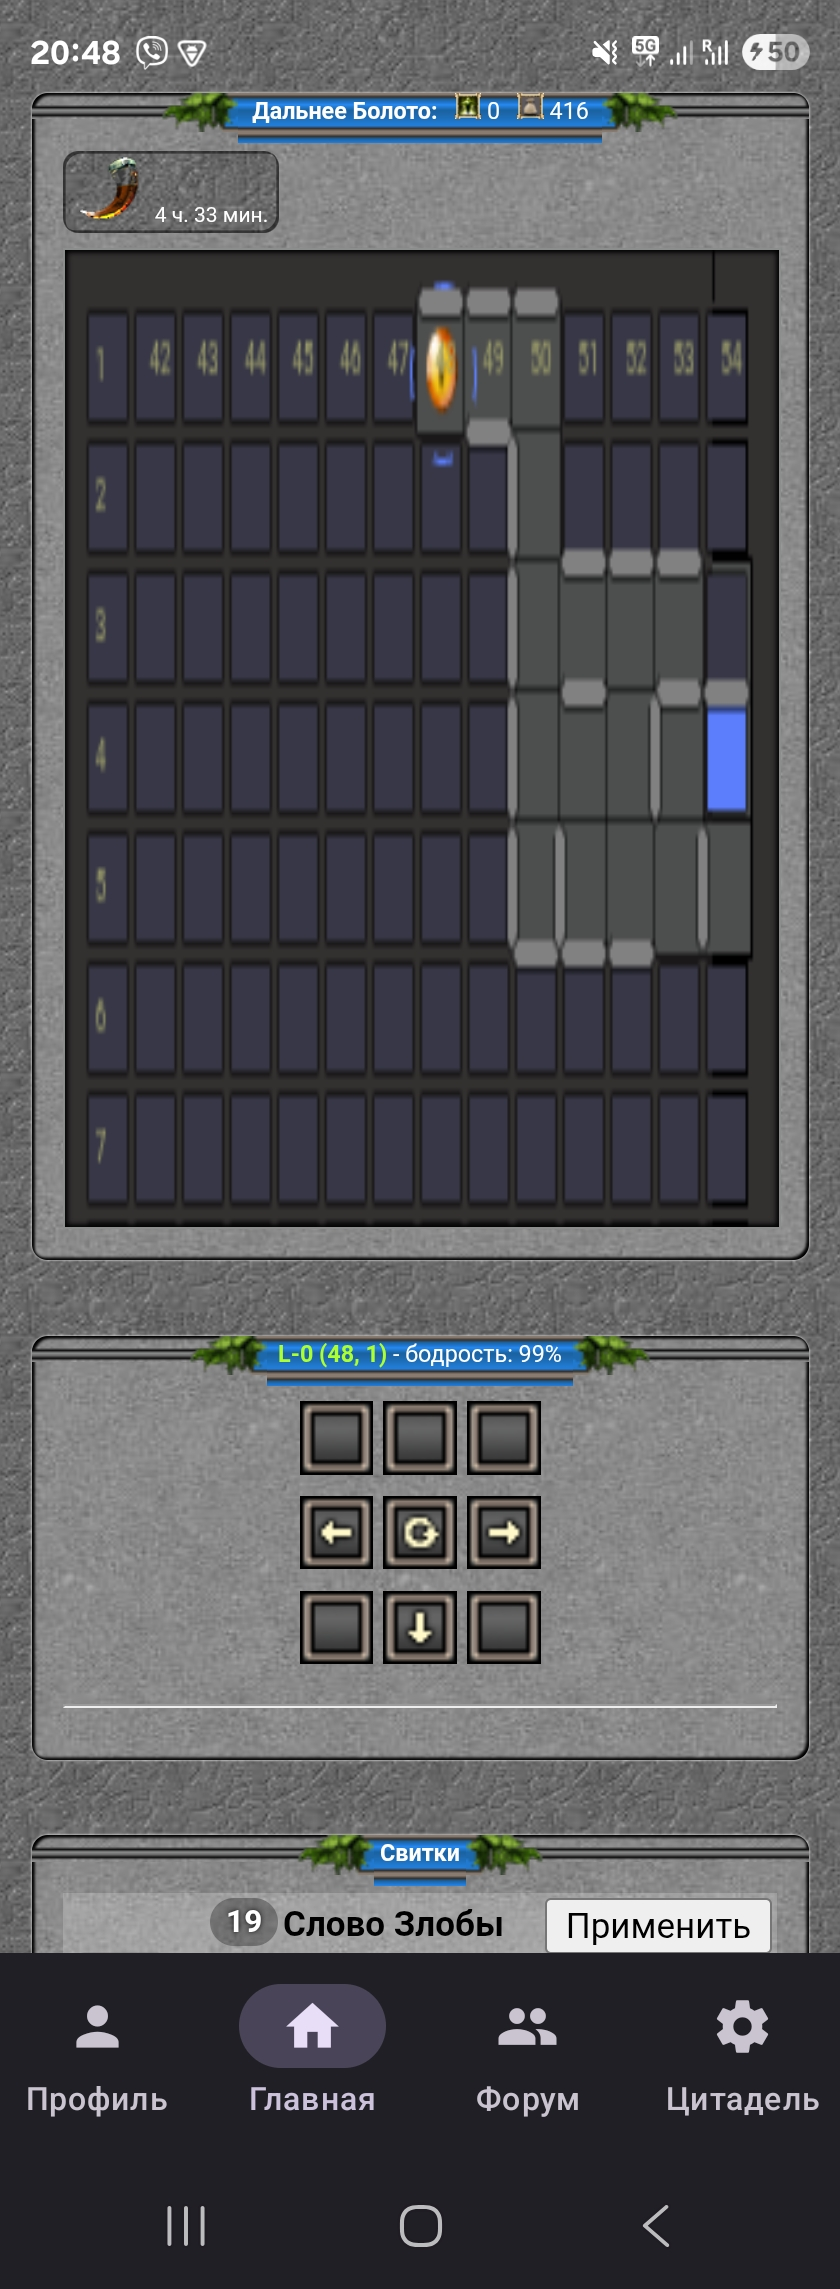
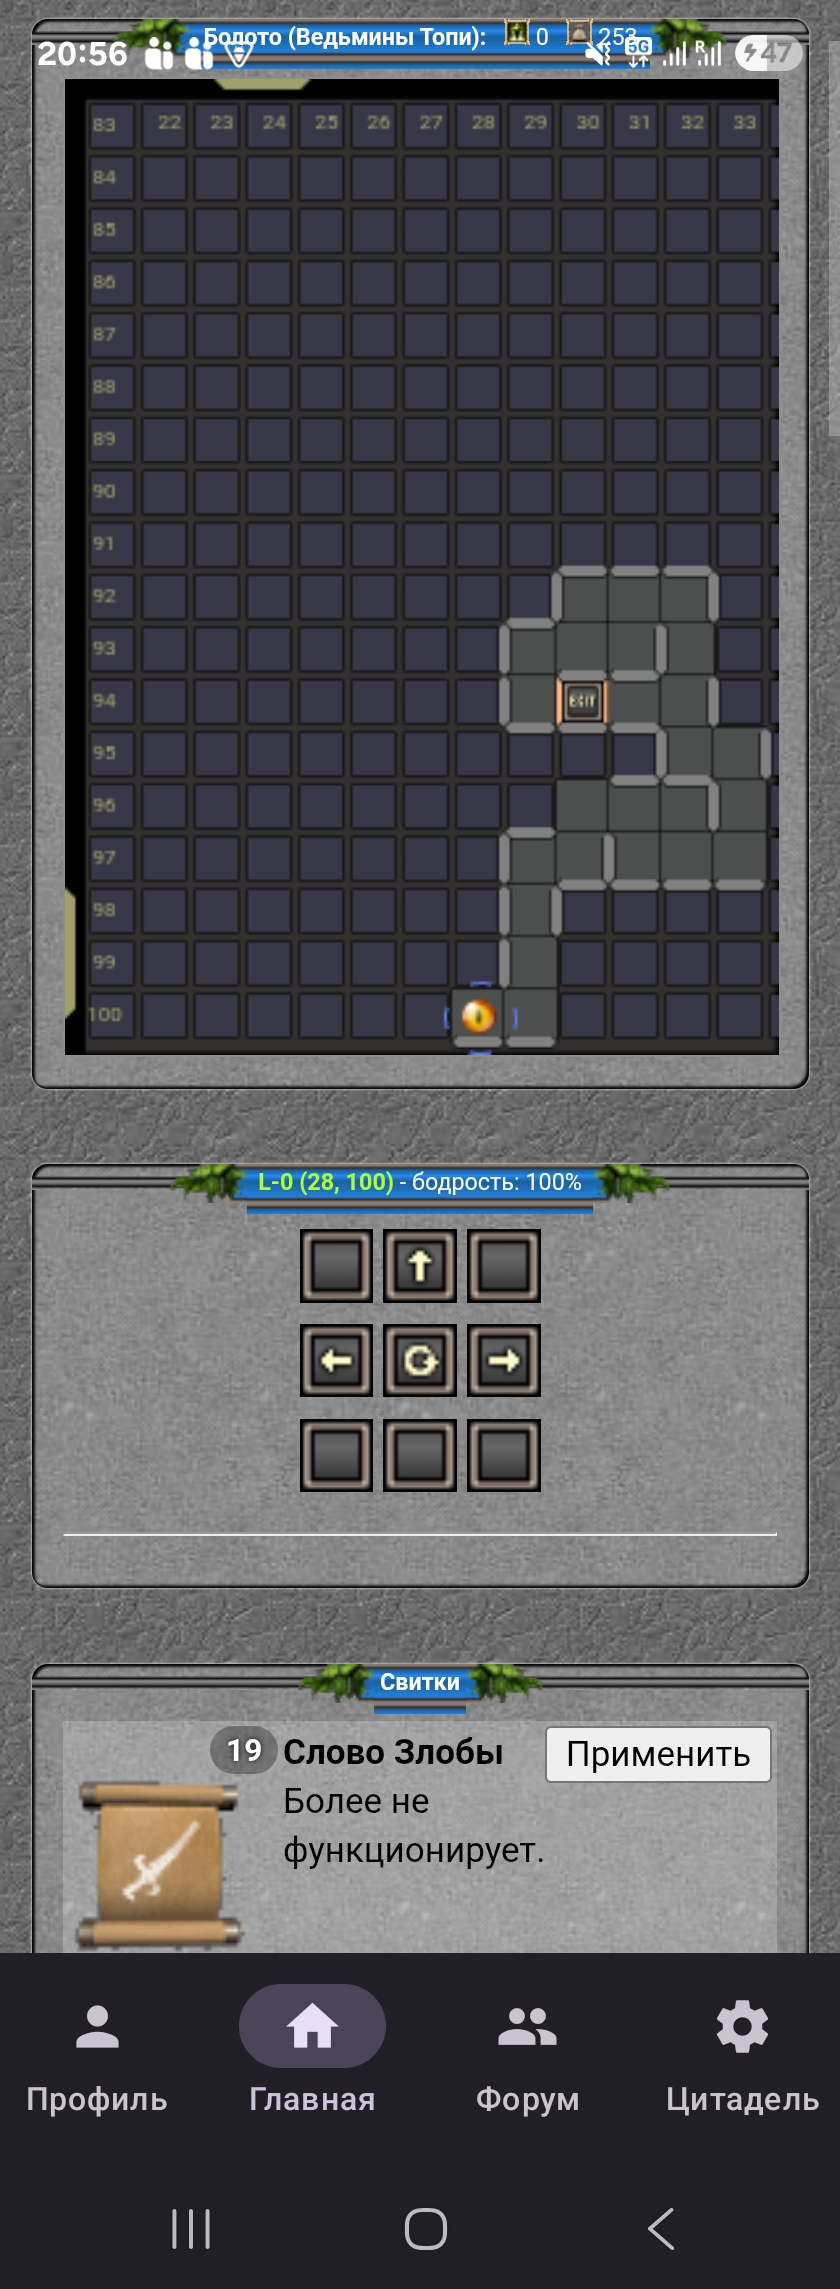
[#15] [NF] Labyrinth. Fix drawing

diff --git a/resources/js/labyrinth.js b/resources/js/labyrinth.js
@@ -207,7 +207,14 @@ window.bScrolling = false;
 window.aFocus = [];
 window.aMap = {};
 window.oCanvas = null;
-document.addEventListener('DOMContentLoaded', () => window.oCanvas = ge('cimap').getContext('2d'));
+document.addEventListener('DOMContentLoaded', () => {
+    const canvasElement = ge('cimap');
+    const rect = canvasElement.getBoundingClientRect();
+    // Set canvas resolution to match displayed size
+    canvasElement.width = Math.floor(rect.width);
+    canvasElement.height = Math.floor(rect.height);
+    window.oCanvas = canvasElement.getContext('2d');
+});
 window.aConfig = {
     space: 20,
     border: 4,
